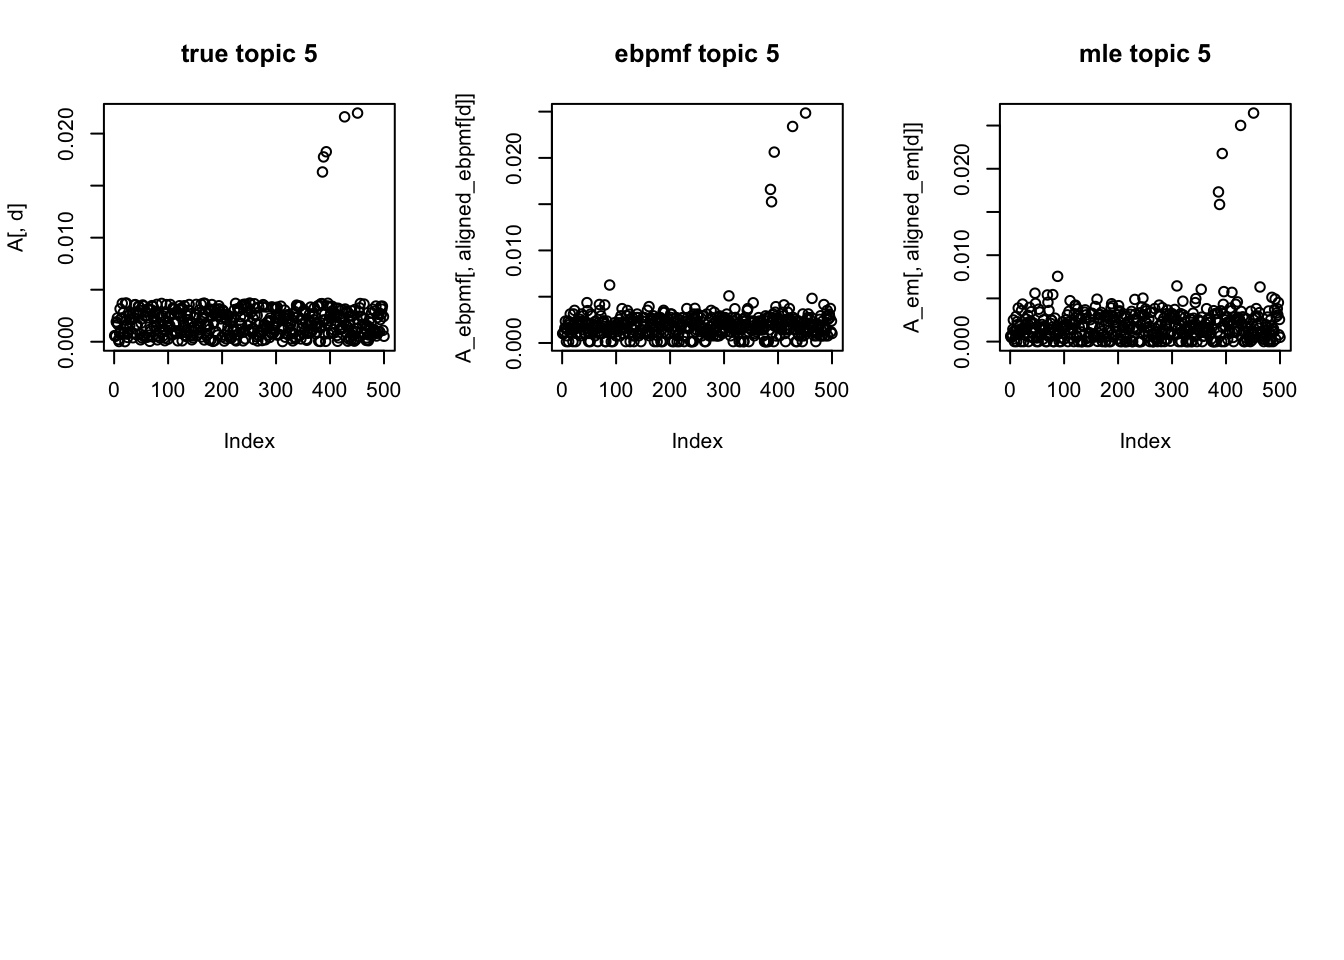
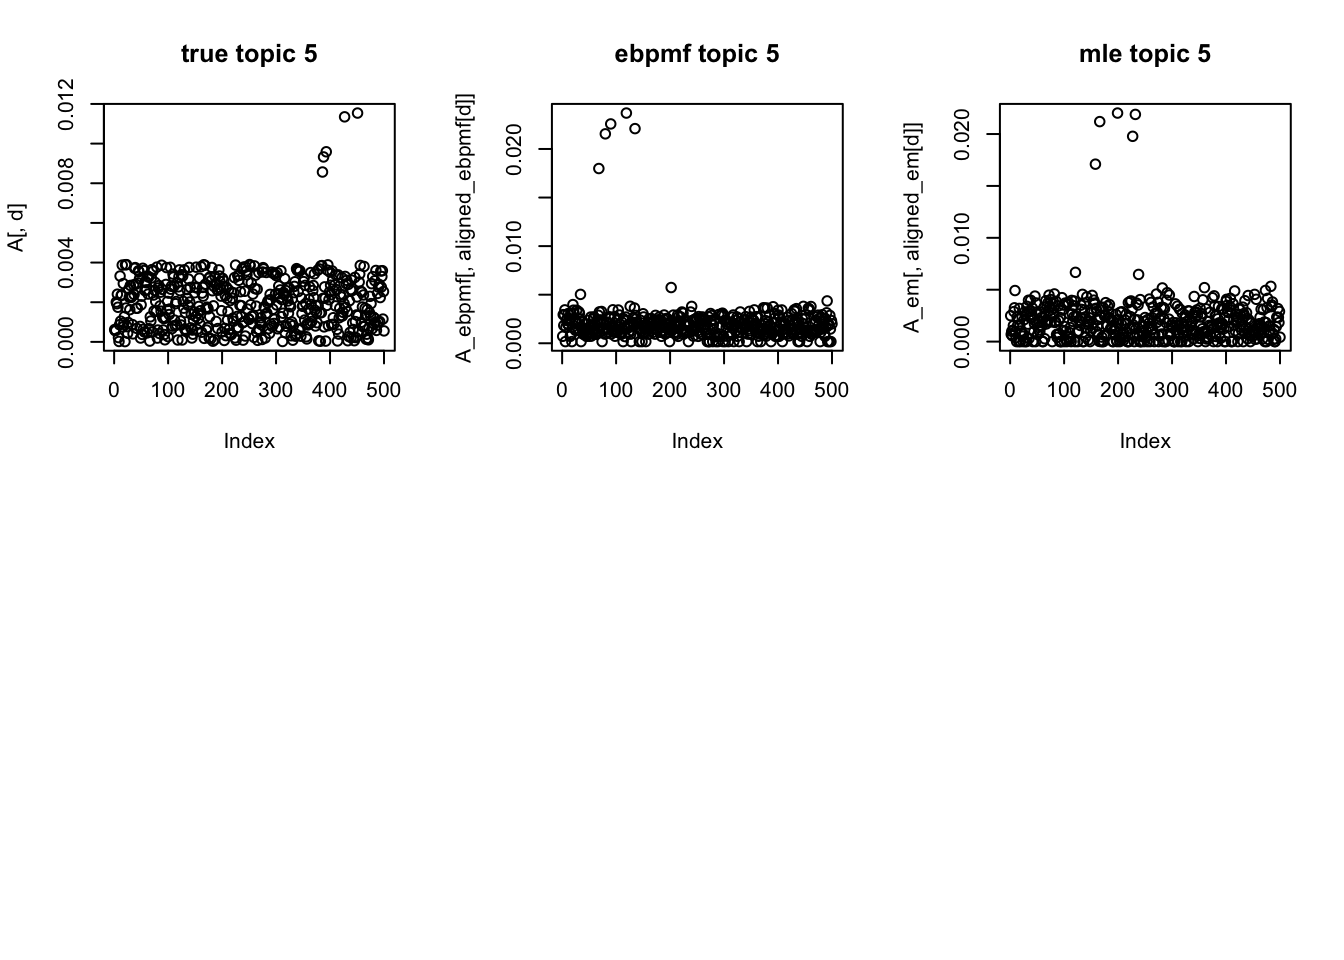
Build site.

diff --git a/docs/nmf_anchor_word3.html b/docs/nmf_anchor_word3.html
@@ -545,10 +545,10 @@ unnamed-chunk-4
 <div class="panel panel-default">
 <div class="panel-heading">
 <p class="panel-title">
-<a data-toggle="collapse" data-parent="#workflowr-checks" href="#strongRepositoryversionstrongahrefhttpsgithubcomzihao12ebpmfdemotree3bdff06661c3292e171c781352e5a1607696ff31targetblank3bdff06a"> <span class="glyphicon glyphicon-ok text-success" aria-hidden="true"></span> <strong>Repository version:</strong> <a href="https://github.com/zihao12/ebpmf_demo/tree/3bdff06661c3292e171c781352e5a1607696ff31" target="_blank">3bdff06</a> </a>
+<a data-toggle="collapse" data-parent="#workflowr-checks" href="#strongRepositoryversionstrongahrefhttpsgithubcomzihao12ebpmfdemotree5da0f0bba95264e22f8e04774cf7f3370e9fadb6targetblank5da0f0ba"> <span class="glyphicon glyphicon-ok text-success" aria-hidden="true"></span> <strong>Repository version:</strong> <a href="https://github.com/zihao12/ebpmf_demo/tree/5da0f0bba95264e22f8e04774cf7f3370e9fadb6" target="_blank">5da0f0b</a> </a>
 </p>
 </div>
[2 lines of base64/hex data omitted]
 <div class="panel-body">
 <p>
 Great! You are using Git for version control. Tracking code development and connecting the code version to the results is critical for reproducibility. The version displayed above was the version of the Git repository at the time these results were generated. <br><br> Note that you need to be careful to ensure that all relevant files for the analysis have been committed to Git prior to generating the results (you can use <code>wflow_publish</code> or <code>wflow_git_commit</code>). workflowr only checks the R Markdown file, but you know if there are other scripts or data files that it depends on. Below is the status of the Git repository when the results were generated:
@@ -650,6 +650,40 @@ Message
 </tr>
 </thead>
 <tbody>
+<tr>
+<td>
+Rmd
+</td>
+<td>
+<a href="https://github.com/zihao12/ebpmf_demo/blob/5da0f0bba95264e22f8e04774cf7f3370e9fadb6/analysis/nmf_anchor_word3.Rmd" target="_blank">5da0f0b</a>
+</td>
+<td>
+zihao12
+</td>
+<td>
+2019-12-18
+</td>
+<td>
+nmf_anchor_word3.Rmd with updated ebpm and ebpmf
+</td>
+</tr>
+<tr>
+<td>
+html
+</td>
+<td>
+<a href="https://rawcdn.githack.com/zihao12/ebpmf_demo/c98027b10c412817633ba91794e1fa5a6e394c52/docs/nmf_anchor_word3.html" target="_blank">c98027b</a>
+</td>
+<td>
+zihao12
+</td>
+<td>
+2019-12-18
+</td>
+<td>
+Build site.
+</td>
+</tr>
 <tr>
 <td>
 Rmd
@@ -760,7 +794,7 @@ n = 100
 p = 500
 k = 5
 anchor_word_per_topic = 5
-sep_val = 1
+sep_val = 0.5
 M = round(p/3)
 
 A = matrix(runif(p*k), ncol = k)
@@ -797,7 +831,7 @@ for(i in 1:n){
 }
 
 print(sprintf(&quot;percentage of 0s: %f&quot;, sum(X == 0)/(n*p)))</code></pre>
-<pre><code>[1] &quot;percentage of 0s: 0.744200&quot;</code></pre>
+<pre><code>[1] &quot;percentage of 0s: 0.733820&quot;</code></pre>
 <pre class="r"><code>## save simulation for possible comparison with `anchorwords`
 write.table(A, &quot;data/nmf_anchor_word3_A.csv&quot;, row.names = FALSE, col.names = FALSE)
 write.table(W, &quot;data/nmf_anchor_word3_W.csv&quot;, row.names = FALSE, col.names = FALSE)
@@ -846,7 +880,7 @@ for(d in 1:k){
 }
 ## aligned topics 
 aligned_em</code></pre>
-<pre><code>[1] 4 2 3 1 5</code></pre>
+<pre><code>[1] 2 5 1 5 2</code></pre>
 <p>fit with EBPMF</p>
 <pre class="r"><code>#library(ebpmf.alpha)
 #eps = .Machine$double.xmin
@@ -875,7 +909,7 @@ for(d in 1:k){
 }
 ## aligned topics 
 aligned_ebpmf</code></pre>
-<pre><code>[1] 5 2 3 1 4</code></pre>
+<pre><code>[1] 2 2 2 4 5</code></pre>
 <pre class="r"><code>par(mfrow=c(2,3))
 for(d in 1:k){
   plot(A[,d],main = sprintf(&quot;true topic %d&quot;, d))
@@ -1036,13 +1070,13 @@ Lam_ebpmf = A_ebpmf %*% W_ebpmf %*% diag(colSums(X))
 
 ## likelihood for truth
 sum(dpois(x = X, lambda = Lam_true,log = TRUE))</code></pre>
-<pre><code>[1] -32912.06</code></pre>
+<pre><code>[1] -33702.93</code></pre>
 <pre class="r"><code>## likelihood for em result
 sum(dpois(x = X, lambda = Lam_em,log = TRUE))</code></pre>
-<pre><code>[1] -31486.29</code></pre>
+<pre><code>[1] -Inf</code></pre>
 <pre class="r"><code>## likelihood for ebpmf result
 sum(dpois(x = X, lambda = Lam_ebpmf,log = TRUE))</code></pre>
-<pre><code>[1] -32065.5</code></pre>
+<pre><code>[1] -33533.96</code></pre>
 <p>Compare ELBO</p>
 <p>For truth and MLE result, I initialize q,g with them and run 1 iteration.</p>
 <pre class="r"><code>## ELBOP FOR EBPMF
@@ -1052,12 +1086,12 @@ fit_ebpmf_two_gamma$ELBO[length(fit_ebpmf_two_gamma$ELBO)]</code></pre>
 qg_true = ebpmf.alpha::initialize_qg_from_LF(F0 = A, L0 = t(W %*% diag(colSums(X))))
 fit_tmp = ebpmf.alpha::ebpmf_two_gamma(X = t(X), K = k, qg = qg_true, maxiter.out = 1)
 fit_tmp$ELBO</code></pre>
-<pre><code>[1] -31707.07</code></pre>
+<pre><code>[1] -33112.64</code></pre>
 <pre class="r"><code>## ELBO FOR MLE
 qg_mle = ebpmf.alpha::initialize_qg_from_LF(F0 = t(fit_mle_em$H), L0 = fit_mle_em$W)
 fit_mle = ebpmf.alpha::ebpmf_two_gamma(X = t(X), K = k, qg = qg_mle, maxiter.out = 1)
 fit_mle$ELBO</code></pre>
-<pre><code>[1] -32127.03</code></pre>
+<pre><code>[1] -33952.6</code></pre>
 <pre class="r"><code>plot(fit_ebpmf_two_gamma$ELBO)</code></pre>
 <p><img src="figure/nmf_anchor_word3.Rmd/unnamed-chunk-9-1.png" width="672" style="display: block; margin: auto;" /></p>
 <p>
@@ -1310,11 +1344,10 @@ loaded via a namespace (and not attached):
 [25] devtools_2.2.1.9000 rprojroot_1.3-2     glue_1.3.1         
 [28] R6_2.4.0            processx_3.3.1      rmarkdown_1.13     
 [31] sessioninfo_1.1.1   mixsqp_0.2-3        callr_3.2.0        
-[34] magrittr_1.5        whisker_0.3-2       codetools_0.2-16   
-[37] usethis_1.5.1       backports_1.1.5     promises_1.0.1     
-[40] ps_1.3.0            htmltools_0.3.6     ellipsis_0.3.0     
-[43] assertthat_0.2.1    httpuv_1.5.1        stringi_1.4.3      
-[46] crayon_1.3.4       </code></pre>
+[34] magrittr_1.5        whisker_0.3-2       usethis_1.5.1      
+[37] backports_1.1.5     promises_1.0.1      ps_1.3.0           
+[40] htmltools_0.3.6     ellipsis_0.3.0      assertthat_0.2.1   
+[43] httpuv_1.5.1        stringi_1.4.3       crayon_1.3.4       </code></pre>
 </div>
 </div>
 
